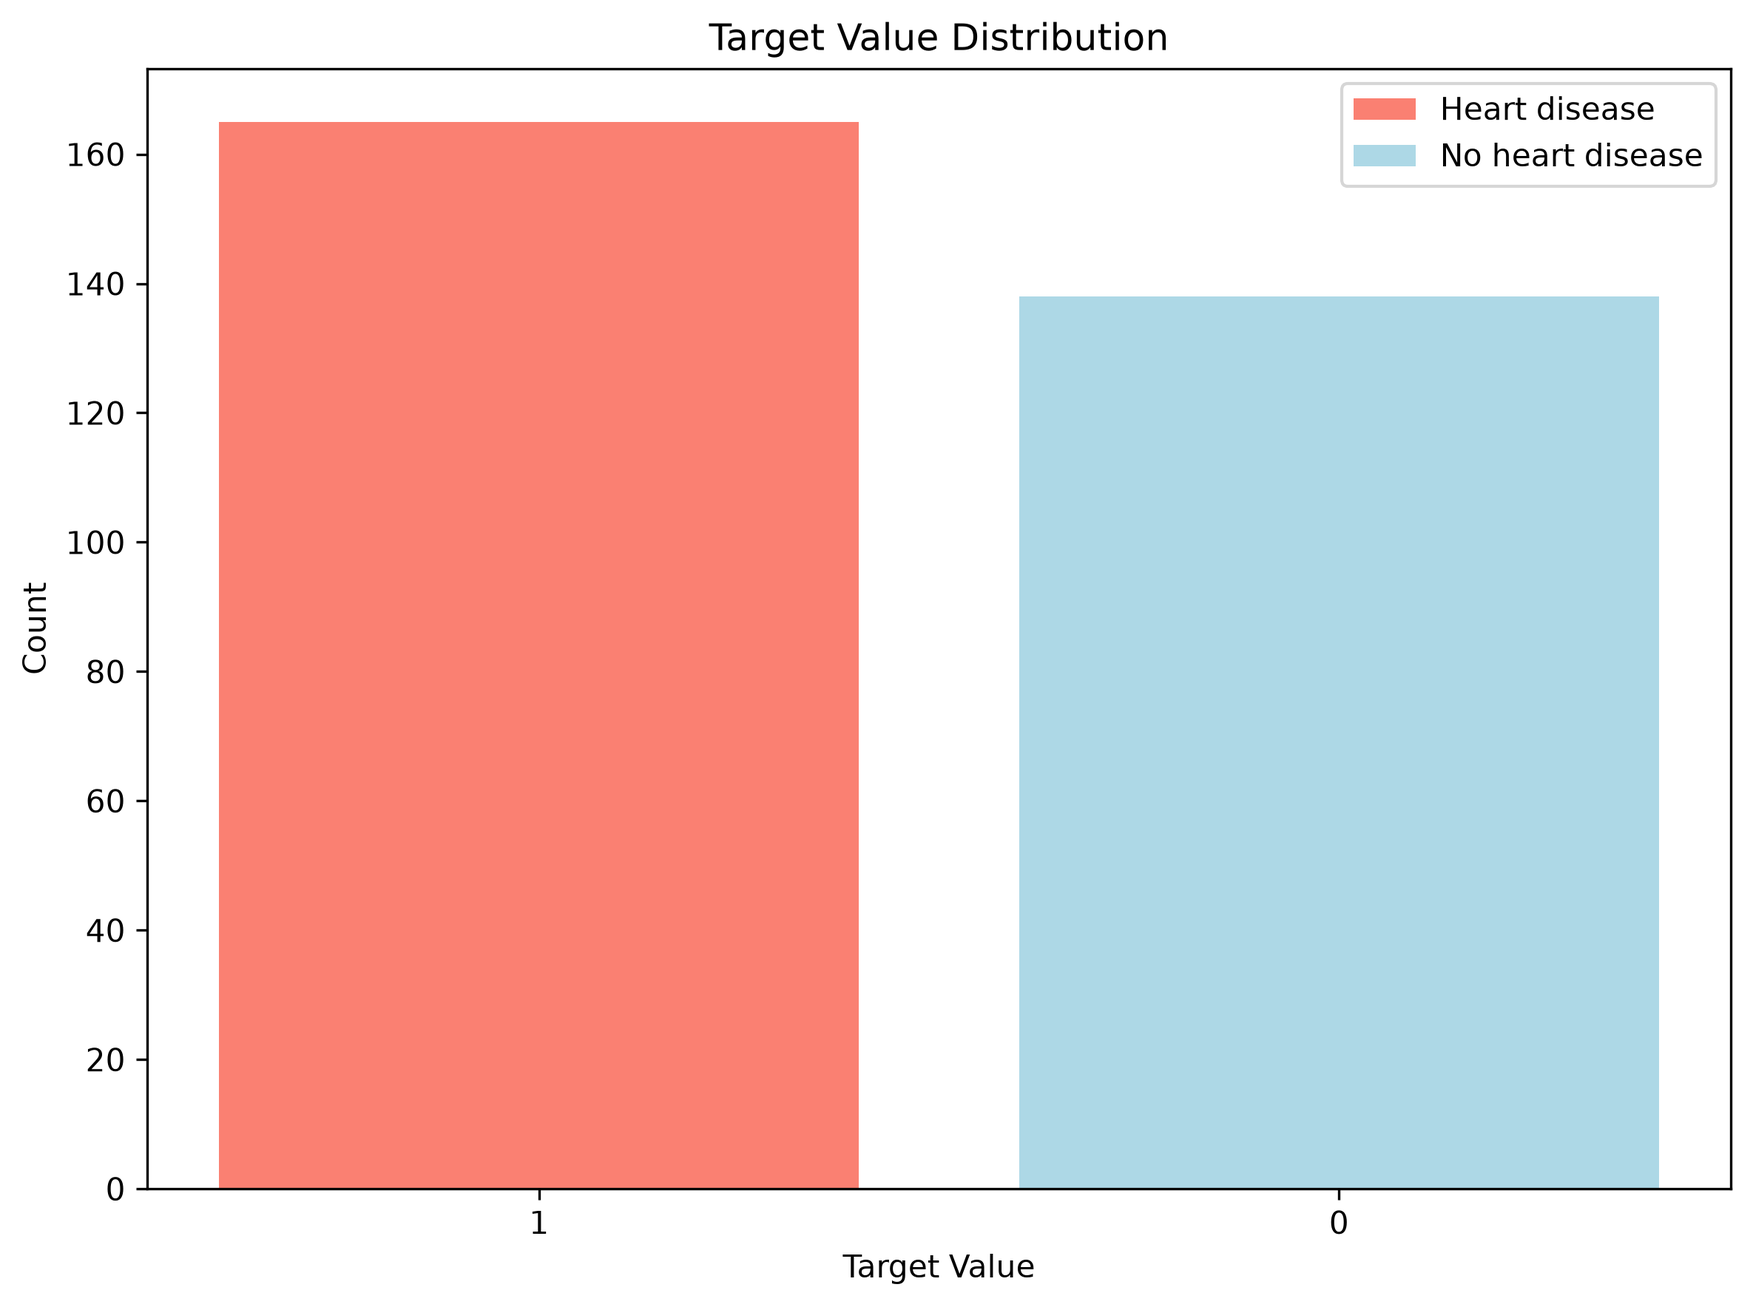
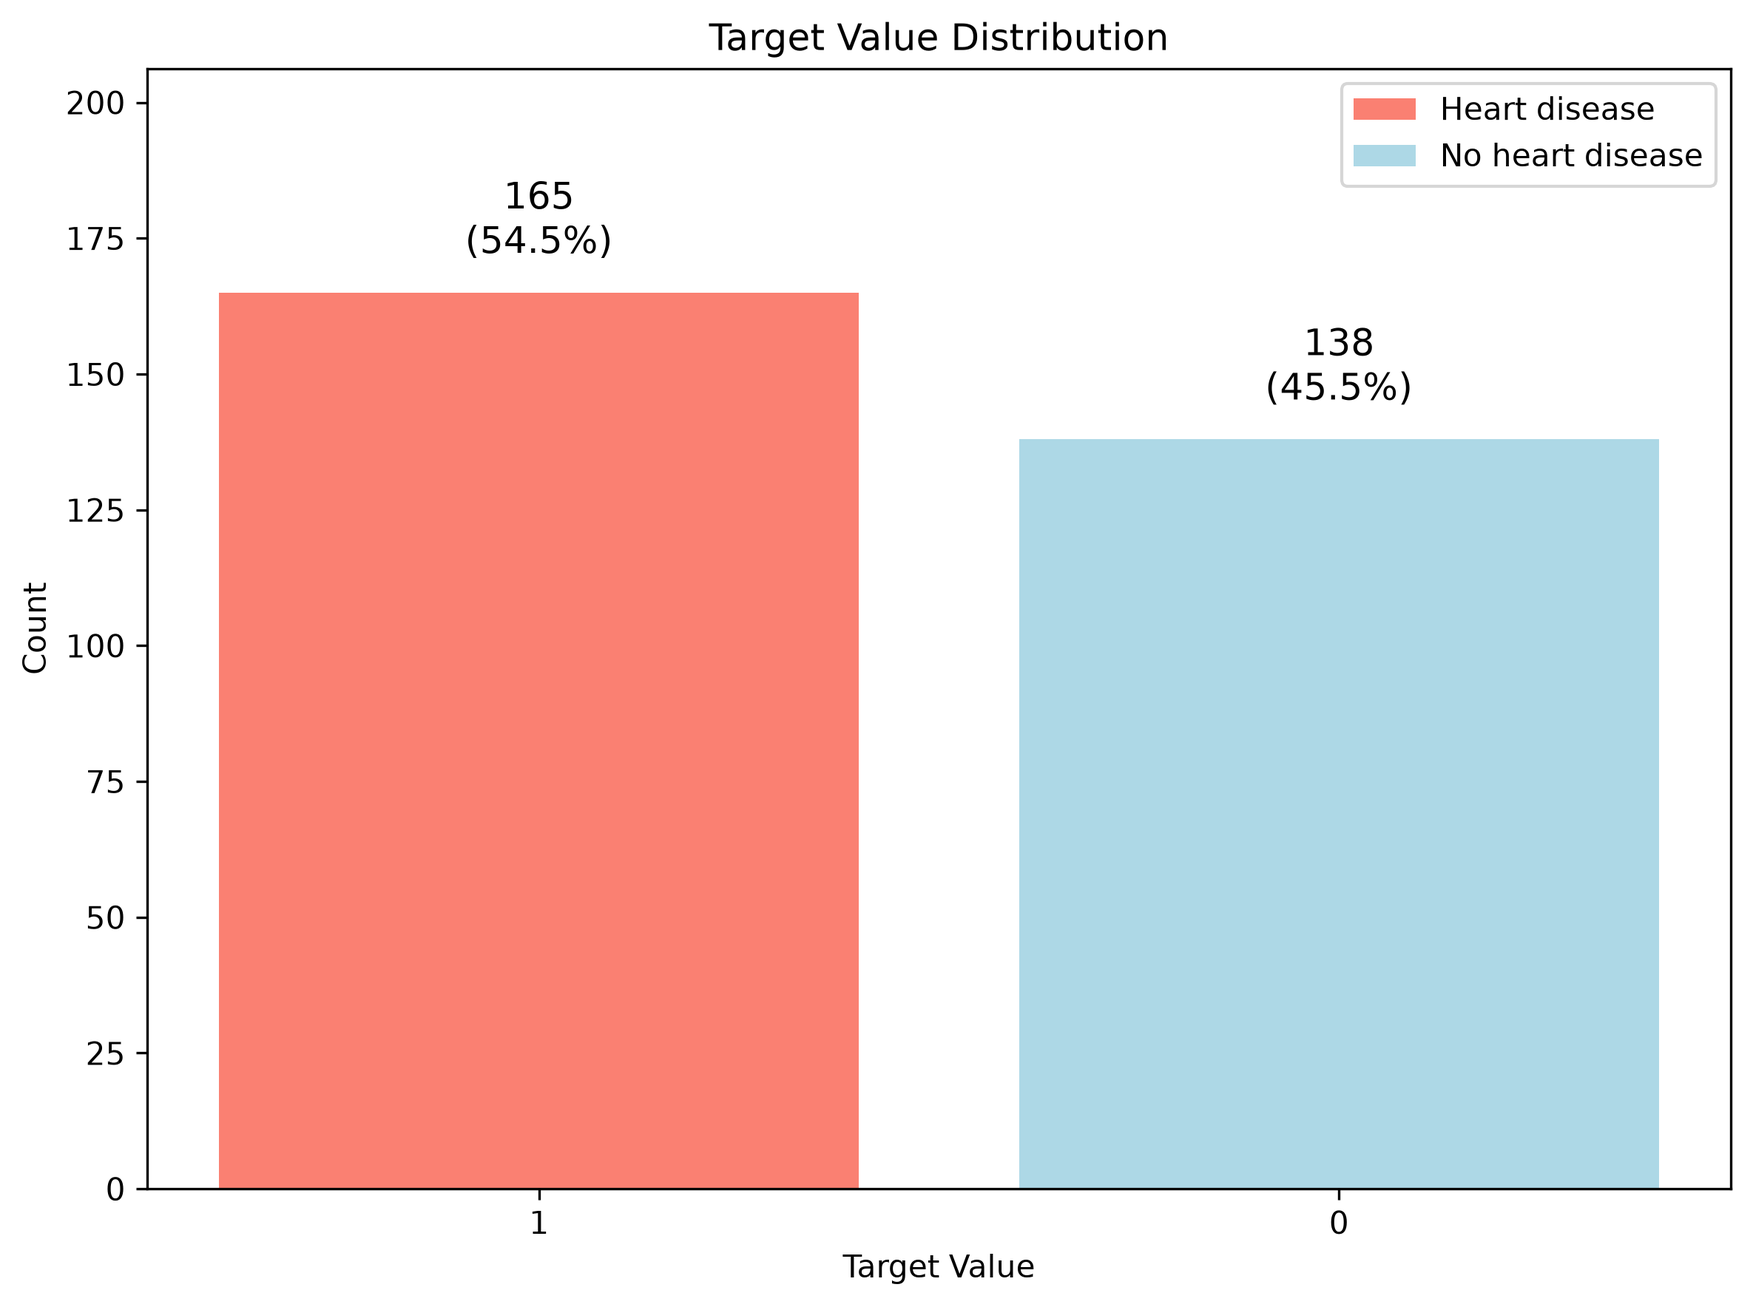
docs: Minor changes in the final report
docs: update readme

diff --git a/heart_disease_report.md b/heart_disease_report.md
@@ -2,12 +2,13 @@
 
 ## Table of Contents
 1. [Problem Definition](#1-problem-definition)
-2. [Data Preprocessing and EDA](#2-data-preprocessing-and-eda)
+2. [Data Preprocessing and Exploratory Data Analysis](#2-data-preprocessing-and-exploratory-data-analysis)
 3. [Modelling and Hyperparameter Tuning](#3-modelling-and-hyperparameter-tuning)
-4. [Final Model Evaluation](#4-final-model-evaluation)
-5. [Feature Importance Analysis & Model Interpretability](#5-feature-importance-analysis--model-interpretability)
+4. [Final Model Evaluation and Comparison](#4-final-model-evaluation-and-comparison)
+5. [Feature Importance Analysis and Model Interpretability](#5-feature-importance-analysis-and-model-interpretability)
 6. [Conclusion](#6-conclusion)
 7. [Acknowledgements](#7-acknowledgements)
+
 
 ---
 ## 1. Problem Definition
@@ -30,7 +31,7 @@ The dataset is derived from the **Cleveland Heart Disease Database** hosted on t
 
 ---
 
-## 2. Data Preprocessing and EDA
+## 2. Data Preprocessing and Exploratory Data Analysis
 
 ### 2.1 Data Dictionary
 
@@ -55,28 +56,26 @@ The dataset contains 13 clinical diagnostic features and 1 binary target variabl
 
 > **Privacy Note:** No Personally Identifiable Information (PII) is present in this dataset.
 
----
-
 ### 2.2 Exploratory Data Analysis (EDA) Summary
 
 #### 1\. Target Variable Distribution
 
 <p align="center">
-  <img src="plots/EDA/01_EDA_target_value_distribution.png" width="400">
+  <img src="plots/EDA/01_EDA_target_value_distribution.png" width="80%">
 </p>
 
--   **Balance Assessment:** The target variable is well-balanced (~54% positive, ~46% negative), showing no significant class imbalance. Consequently, no complex re-sampling techniques (e.g., SMOTE, oversampling/undersampling) are required prior to model training.
+-   **Balance Assessment:** The target variable is well-balanced (~54% positive, ~46% negative), showing no significant class imbalance. Consequently, no complex re-sampling techniques are required prior to model training.
 
 #### 2\. Key Demographic & Physiological Insights
 
 <p align="center">
-  <img src="plots/EDA/02_EDA_heart_disease_vs_sex.png" width="400">
+  <img src="plots/EDA/02_EDA_heart_disease_vs_sex.png" width="80%">
 </p>
 
 -   **Gender Disparity:** A prominent gender-based correlation was identified. Female patients exhibit a **~75% probability** of heart disease within this sample, whereas the probability for male patients is approximately **48%**, indicating that `sex` is a strong predictive feature.
 
 <p align="center">
-  <img src="plots/EDA/03_EDA_heart_disease_vs_age_and_max_heart_rate.png" width="400">
+  <img src="plots/EDA/03_EDA_heart_disease_vs_age_and_max_heart_rate.png" width="80%">
 </p>
 
 -   **Age vs. Maximum Heart Rate (`thalach`):** A clear negative correlation exists between age and maximum heart rate. Intriguingly, a higher prevalence of heart disease was observed within the younger patient cohort in this dataset, warranting further domain evaluation into potential environmental or lifestyle triggers.
@@ -84,7 +83,7 @@ The dataset contains 13 clinical diagnostic features and 1 binary target variabl
 #### 3\. Clinical Data Anomalies
 
 <p align="center">
-  <img src="plots/EDA/04_EDA_heart_disease_vs_chest_pain_type.png" width="400">
+  <img src="plots/EDA/04_EDA_heart_disease_vs_chest_pain_type.png" width=width="80%">
 </p>
 
 -   **Chest Pain (`cp`) Paradox:** A counter-intuitive pattern emerged during feature analysis. While Type 1 chest pain (_atypical angina_) is clinically defined as "not directly related to heart disease," the dataset reveals a high probability of heart disease within this specific subgroup, highlighting potential recording bias or domain nuances.
@@ -92,7 +91,7 @@ The dataset contains 13 clinical diagnostic features and 1 binary target variabl
 #### 4\. Correlation Analysis
 
 <p align="center">
-  <img src="plots/EDA/05_EDA_correlation_heatmap.png" width="400">
+  <img src="plots/EDA/05_EDA_correlation_heatmap.png" width=width="80%">
 </p>
 
 -   **Feature Independence:** The correlation heatmap demonstrates low overall multicollinearity across features. The absence of heavily redundant, collinear predictors preserves model interpretability and improves optimization during feature selection.
@@ -101,9 +100,7 @@ The dataset contains 13 clinical diagnostic features and 1 binary target variabl
 
 ## 3. Modelling and Hyperparameter Tuning
 
-To identify the optimal classifier for heart disease prediction, four distinct machine learning algorithms were trained and evaluated using **GridSearchCV / RandomizedSearchCV** with 5-fold cross-validation. Hyperparameter tuning was performed on each algorithm to optimize the F1-Score, striking an ideal balance between overall accuracy and Recall to minimize false negatives.
-
----
+To identify the optimal classifier for heart disease prediction, four distinct machine learning algorithms were trained and evaluated using **GridSearchCV / RandomizedSearchCV** with 5-fold cross-validation. Hyperparameter tuning was performed on each algorithm to optimize the F1-Score, striking a balance between overall accuracy and Recall to minimize false negatives.
 
 ### 3.1 K-Nearest Neighbors (KNN)
 * **Tuning Strategy:** Evaluated various values of $K$ (number of neighbors) alongside different distance metrics (Euclidean vs. Manhattan).
@@ -115,10 +112,8 @@ To identify the optimal classifier for heart disease prediction, four distinct m
 
 * **Best Parameters:** `n_neighbors = [5]`, `weights = '[uniform]'`, `p = [1]`
 
----
-
 ### 3.2 Support Vector Machine (SVM)
-* **Tuning Strategy:** Focused on the **Radial Basis Function (RBF) kernel**, systematically tuning the regularization parameter ($C$) and kernel coefficient ($\gamma$).
+* **Tuning Strategy:** Focused on the **Radial Basis Function (RBF) kernel** and **linear kernel**, systematically tuning the regularization parameter ($C$) and kernel coefficient ($\gamma$).
 * **Optimization Results:**
 
 <p align="center">
@@ -126,8 +121,6 @@ To identify the optimal classifier for heart disease prediction, four distinct m
 </p>
 
 * **Best Parameters:** `C = [10]`, `gamma = '[0.01]'`, `kernel = 'rbf'`
-
----
 
 ### 3.3 Logistic Regression
 * **Tuning Strategy:** Adjusted the inverse regularization strength ($C$) and evaluated different solvers (`liblinear`, `lbfgs`) using both $L_1$ and $L_2$ penalties.
@@ -139,7 +132,6 @@ To identify the optimal classifier for heart disease prediction, four distinct m
 
 * **Best Parameters:** `C = [0.004832930238571752]`, `solver = '[lbfgs]'`
 
----
 
 ### 3.4 Random Forest Classifier
 * **Tuning Strategy:** Explored the tree-based search space by varying `n_estimators`, `max_depth`, `min_samples_split`, and `min_samples_leaf` to prevent overfitting.
@@ -151,7 +143,6 @@ To identify the optimal classifier for heart disease prediction, four distinct m
 
 * **Best Parameters:** `n_estimators = [960]`, `max_depth = [3]`, `min_samples_split = [4]`, `min_samples_leaf = [13]`
 
----
 
 ### 3.5 Hyperparameter Tuning Summary & Model Comparison
 
@@ -175,15 +166,14 @@ After tuning each candidate model, we aggregated their performance across cross-
 | **Logistic Regression** | `C = [0.004832930238571752]`, `solver = '[lbfgs]'` | [84.19%] | **[90.62%]** | **[87.88%]** |
 | **Random Forest** | `n_estimators = [960]`, `max_depth = [3]`, `min_samples_split = [4]`, `min_samples_leaf = [13]` | [84.18%] | **[90.62%]** | **[87.88%]** |
 
-* **Selection Decision:** Based on the overall performance comparison above, **Logistic Regression** was chosen as the champion model. It achieved the optimal balance between high overall accuracy and maximum **Recall**, ensuring robust sensitivity in clinical prediction.
+* **Selection Decision:** Based on the overall performance comparison above, **Logistic Regression** was chosen as the best model. It achieved superior **Recall (90.62%)** and **F1-Score (87.88%)**, zero overfitting risk, and the model itself has excellent interpretability. 
 
 ---
 
-## 4. Final Model Evaluation
+## 4. Final Model Evaluation and Comparison
 
 Having selected **Logistic Regression** as the champion model during hyperparameter tuning, this section presents a comprehensive evaluation of its performance on the unseen **Test Set**. The focus is placed on diagnostic reliability, class discrimination capability, and clinical safety.
 
----
 
 ### 4.1 Diagnostic Safety & Error Analysis (Confusion Matrix)
 
@@ -201,8 +191,6 @@ To evaluate the clinical risk associated with incorrect predictions, we analyzed
 
 * **Clinical Impact:** In medical screening, **False Negatives** carry significantly higher consequences than False Positives. As shown in the matrix, the model achieved a remarkably low False Negative rate, correctly identifying **90.62%** of high-risk individuals. This ensures that vulnerable patients receive timely clinical intervention with minimal risk of false reassurance.
 
----
-
 ### 4.2 Threshold Discrimination & Robustness (ROC-AUC Analysis)
 
 We plotted the **Receiver Operating Characteristic (ROC)** curves across all candidate models to evaluate their capability to separate positive and negative classes across varying decision thresholds.
@@ -217,22 +205,20 @@ We plotted the **Receiver Operating Characteristic (ROC)** curves across all can
   * More importantly, Logistic Regression was selected because it outperformed the higher-AUC models in key clinical priorities: it achieved superior **Recall (90.62%)**, a balanced **F1-Score**, zero overfitting risk, and complete **Model Interpretability** via feature coefficients—making it the safest and most transparent choice for medical deployment.
   * The steep early rise of the curve confirms high Sensitivity (Recall) even at strict specificity levels, ensuring the model remains highly adaptable if clinical decision thresholds need to be adjusted.
 
----
 
 ### 4.3 Generalization & Overfitting Check
 
 To guarantee that the selected model generalizes well to real-world, unseen patient data, we conducted a side-by-side verification of training versus testing metrics.
 
-* **Zero Overfitting:** Unlike complex non-linear models (e.g., KNN/SVM) which exhibited performance gaps between training cross-validation and testing, Logistic Regression demonstrated virtually identical performance across both sets ($\text{CV Score} \approx \text{Test Score} = 86.89\%$).
+* **Zero Overfitting:** Unlike complex non-linear models (e.g., KNN/SVM) which exhibited performance gaps between training cross-validation and testing, Logistic Regression performs much better in the test set, even outperforming the Random Forest Classifier.
+
 * **Conclusion:** The evaluation confirms that **Logistic Regression** is not only accurate and sensitive to high-risk cases, but also immune to overfitting, making it the most robust choice for clinical deployment.
 
 ---
 
-## 5. Feature Importance Analysis & Model Interpretability
+## 5. Feature Importance Analysis and Model Interpretability
 
 Beyond predictive accuracy, clinical safety requires **model interpretability**—ensuring that the model's predictions align with established cardiovascular domain knowledge. This section examines key diagnostic predictors across both linear (Logistic Regression) and tree-based (Random Forest) models, complemented by a decision tree structure visualization.
-
----
 
 ### 5.1 Primary Risk Factors Comparison
 
@@ -257,7 +243,6 @@ Both models consistently identify the same top diagnostic features as primary pr
 5. **`sex` (Gender Factor):**
    * Shows a noticeable negative coefficient in Logistic Regression (and moderate importance in Random Forest), aligning with clinical statistics where male demographic profiles exhibit different baseline risk distributions.
 
----
 
 ### 5.2 Tree Decision Logic Visualization
 
@@ -278,7 +263,7 @@ To visualize how these top features interact to form concrete decision boundarie
 This project successfully developed an end-to-end Machine Learning pipeline to predict heart disease risk using clinical patient attributes. Through systematic pre-processing, extensive Exploratory Data Analysis (EDA), and rigorous hyperparameter tuning, we evaluated four distinct classification algorithms.
 
 ### 6.1 Summary of Key Findings:
-1. **Champion Model Selection:** **Logistic Regression** emerged as the optimal champion model for clinical deployment. While it demonstrated a slightly lower AUC (0.92) compared to SVM/Random Forest (0.93–0.94), it achieved superior performance in critical clinical priorities—delivering a top-tier **Recall (90.62%)** and a balanced **F1-Score**, with zero overfitting gap between training CV and test sets.
+1. **Champion Model Selection:** **Logistic Regression** emerged as the optimal model for clinical deployment. While it demonstrated a slightly lower AUC (0.92) compared to SVM/Random Forest (0.93–0.94), it achieved superior performance in critical clinical priorities—delivering a top-tier **Recall (90.62%)** and a balanced **F1-Score**, with no evidence of overfitting.
 2. **Clinical Risk Mitigation:** By prioritizing Recall during final metrics assessment, the pipeline successfully minimized **False Negatives**, ensuring high-risk heart disease patients are accurately identified for early medical intervention.
 3. **Domain Alignment & Interpretability:** Feature importance analysis across linear and tree-based models validated that **`ca`** (vessel count), **`cp`** (chest pain type), **`oldpeak`** (ST depression), **`thal`** (stress test defect), **`exang`** (angina), and **`sex`** serve as the primary risk predictors. These statistical insights closely align with established medical literature, providing high diagnostic transparency.
 
@@ -291,5 +276,14 @@ This project successfully developed an end-to-end Machine Learning pipeline to p
 ## 7. Acknowledgements
 
 * **Data Source:** Special thanks to the **UCI Machine Learning Repository** for providing the classic [Heart Disease Dataset](https://archive.ics.uci.edu/ml/datasets/heart+disease) (specifically the Cleveland database collected by Robert Detrano, M.D., Ph.D.).
-* **Educational Course:** Inspired by and referenced from the **[Complete Machine Learning & Data Science Bootcamp: Zero to Mastery](https://zerotomastery.io/)** course by Andrei Neagoie and Daniel Bourke.
-* **Open-Source Tools:** Built using the Python Data Science stack, including [Scikit-Learn](https://scikit-learn.org/), [Pandas](https://pandas.pydata.org/), [NumPy](https://numpy.org/), [Matplotlib](https://matplotlib.org/), and [Seaborn](https://seaborn.pydata.org/).
+
+* **Inspiration & Base Concepts:** Inspired by the foundational workflow from the [Zero to Mastery Machine Learning Course](https://github.com/mrdbourke/zero-to-mastery-ml).
+
+### Key Improvements & Technical Enhancements
+This project goes significantly beyond the baseline course material through full end-to-end refactoring and expansion:
+
+* **End-to-End Pipeline Architecture:** Fully rewritten the training and preprocessing workflows using Scikit-Learn `Pipeline` and standardized feature scaling (`StandardScaler`) to prevent data leakage.
+* **Expanded Model Benchmarking:** Integrated Support Vector Classifier (SVC/SVM) into the algorithm evaluation matrix alongside baseline models.
+* **Advanced Visualizations & Interpretation:** Redesigned EDA visual formats, cross-validation metrics, and comprehensive feature importance analysis for enhanced model interpretability.
+* **Refactored Model Evaluation:** Overhauled performance tracking with systematic confusion matrices, ROC-AUC comparisons, and structured hyperparameter tuning outputs.
+* **Interactive Web Deployment:** Developed and deployed a dynamic, multi-page prediction dashboard using **Streamlit**.

diff --git a/README.md b/README.md
@@ -31,7 +31,7 @@ This project provides an end-to-end Machine Learning solution to predict the pre
 
 ## Key Results
 
-### Model Performance Comparison
+### 1. Model Performance Comparison
 
 We evaluated the tuned candidate models on the unseen test set across multiple metrics to diagnose generalization and threshold performance.
 
@@ -42,9 +42,7 @@ We evaluated the tuned candidate models on the unseen test set across multiple m
 
 * **Model Generalization:** **Logistic Regression** and **Random Forest** demonstrated superior generalization on the unseen test set compared to **KNN** and **SVM**, which showed signs of slight overfitting during training.
 
----
-
-### Champion Model Deep-Dive (Logistic Regression)
+### 2. Champion Model Deep-Dive (Logistic Regression)
 
 | Discrimination Power (ROC Curve) | Diagnostic Reliability (Confusion Matrix) |
 | :---: | :---: |
@@ -53,9 +51,7 @@ We evaluated the tuned candidate models on the unseen test set across multiple m
 
 * **Clinical Metric Alignment:** **Logistic Regression** achieved the optimal balance, delivering the highest **Recall** and **F1-Score**. This minimizes False Negatives—ensuring high-risk heart disease patients are correctly identified for timely medical intervention.
 
----
-
-### Feature Importance & Model Interpretability
+### 3. Feature Importance & Model Interpretability
 
 | Linear Model Risk Factors (LogReg) | Tree-Based Risk Factors (Random Forest) |
 | :---: | :---: |
@@ -93,7 +89,7 @@ heart-disease-predictor/
 The execution pipeline automatically generates and manages the following runtime directories:
 
 ```text
-├── models/                             # Stores trained model files (.pkl)
+├── models/                             # Stores trained model files
 └── plots/                              # Generated visualizations
     ├── EDA/                            # Exploratory Data Analysis plots
     ├── Model_Selection/                # CV scores & hyperparameter tuning
@@ -112,8 +108,6 @@ cd heart-disease-predictor
 ```
 
 You can then set up the project locally using either the standard Python `venv` or the ultra-fast `uv` package manager.
-
----
 
 ### Option 1: Using Standard Python `venv` (Traditional)
 
@@ -139,8 +133,6 @@ source .venv/bin/activate
 pip install --upgrade pip
 pip install -r requirements.txt
 ```
-
----
 
 ### Option 2: Using `uv` (Recommended for Speed)
 
@@ -175,18 +167,25 @@ uv pip install --upgrade pip
 uv pip install -r requirements.txt
 ```
 
+### Run the Streamlit App
+
+Once the dependencies are installed and the model artifacts are generated, launch the interactive web application:
+
+```bash
+streamlit run app.py
+```
+
 ---
 
 ## Acknowledgements
 
 * **Dataset:** Cleveland Heart Disease Dataset from the [UCI Machine Learning Repository](https://archive.ics.uci.edu/ml/datasets/Heart+Disease).
-* **Inspiration & Base Concepts:** Inspired by the foundational workflow from the [Zero to Mastery Machine Learning Course](https://github.com/mrdbourke/zero-to-mastery-ml).
 
-### Key Improvements & Technical Enhancements
-This project goes significantly beyond the baseline course material through full end-to-end refactoring and expansion:
+* **Inspiration:** Built upon foundational concepts from the [Zero to Mastery Machine Learning Course](https://github.com/mrdbourke/zero-to-mastery-ml).
 
-* **End-to-End Pipeline Architecture:** Fully rewritten the training and preprocessing workflows using Scikit-Learn `Pipeline` and standardized feature scaling (`StandardScaler`) to prevent data leakage.
-* **Expanded Model Benchmarking:** Integrated Support Vector Classifier (SVC/SVM) into the algorithm evaluation matrix alongside baseline models.
-* **Advanced Visualizations & Interpretation:** Redesigned EDA visual formats, cross-validation metrics, and comprehensive feature importance analysis for enhanced model interpretability.
-* **Refactored Model Evaluation:** Overhauled performance tracking with systematic confusion matrices, ROC-AUC comparisons, and structured hyperparameter tuning outputs.
-* **Interactive Web Deployment:** Developed and deployed a dynamic, multi-page prediction dashboard using **Streamlit**.
+
+## Key Enhancements Beyond Baseline
+* **Robust Pipeline Architecture:** End-to-end `Pipeline` workflows preventing data leakage and standardizing feature transformations.
+* **Advanced Benchmarking & Tuning:** Comprehensive evaluation and hyperparameter tuning across 4 models.
+* **Model Interpretability:** Deep-dive analysis on feature importance and model interpretability.
+* **Interactive Web App:** Production-ready prediction dashboard deployed via **Streamlit**.
